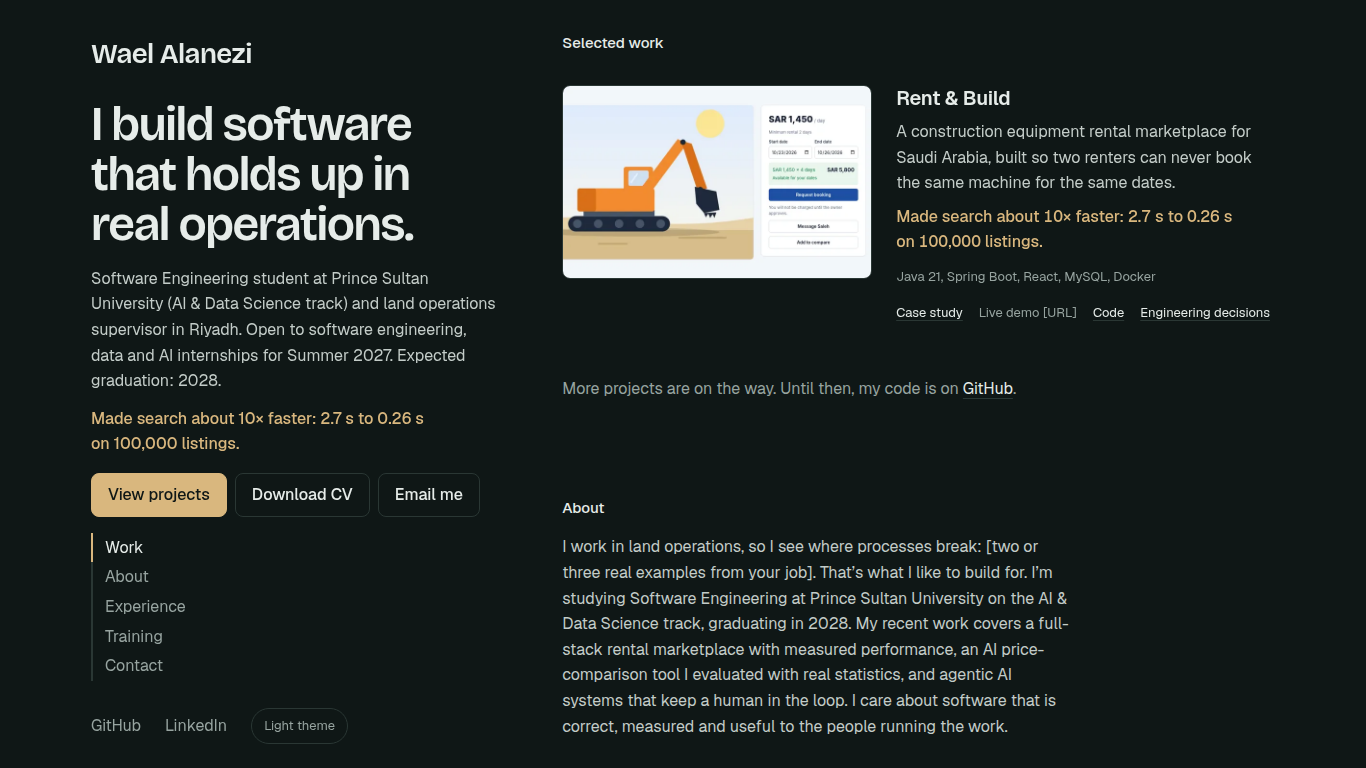
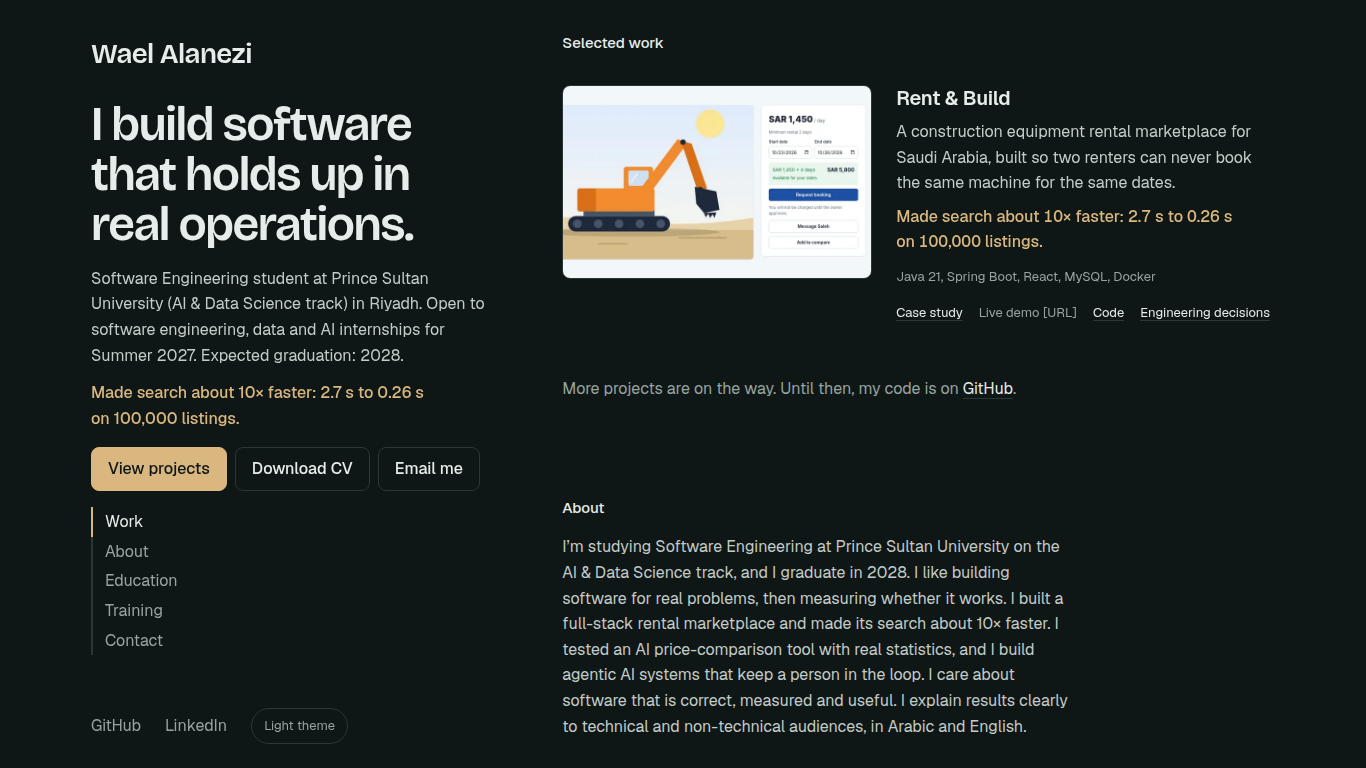
docs: record content changes and refresh screenshots
Claude-Session: https://claude.ai/code/session_014iE84MpdszDz8Z2h1drnfe

Changed region(s): [[0.3997, 0.6875, 0.7994, 0.9688], [0.0615, 0.375, 0.369, 0.875]]

diff --git a/docs/DECISIONS.md b/docs/DECISIONS.md
@@ -101,3 +101,15 @@ Bricolage uses its variable `opsz`, `wdth` and `wght` axes, with `font-optical-s
 - **What:** The Tuwaiq Academy certificate showed Wael's national ID number. That line was covered with white before publishing, and the image's grey outer frame was cropped. Name, course, dates and the verification code are unchanged.
 - **Why:** The site is public, and a national ID number does not belong on it.
 - **Alternative rejected:** Publishing the certificate as received.
+
+## Profile without the operations job (Wael's request)
+- **What:**
+  - Removed the land operations supervisor role from the intro, the About paragraph and the Experience section. With no jobs listed, that section is titled "Education", and so is its sidebar link. Adding a job back in `home.yaml` restores "Experience and education".
+  - Rewrote About from facts in the brief and the CV: the degree, building and measuring software, Rent & Build's faster search, testing Mubsir with statistics, agentic AI with a person in the loop, and explaining results in Arabic and English.
+  - Changed the meta description from "real operational problems" to "builds data and AI software and measures whether it works".
+  - Activities now gives Wael's Alenmaa Hackathon role: backend developer and tester on Mubsir.
+- **Why:** Wael wants the site to focus on his software work rather than his current job.
+
+## Certificate shapes
+- **What:** The certificate component reads each image's real width and height at build time. The hover preview keeps landscape certificates 240 px wide and portrait ones 300 px tall, and the lightbox shows the whole image without cropping.
+- **Why:** The ECCMA certificate is portrait, and a fixed landscape box would have cropped most of it.
